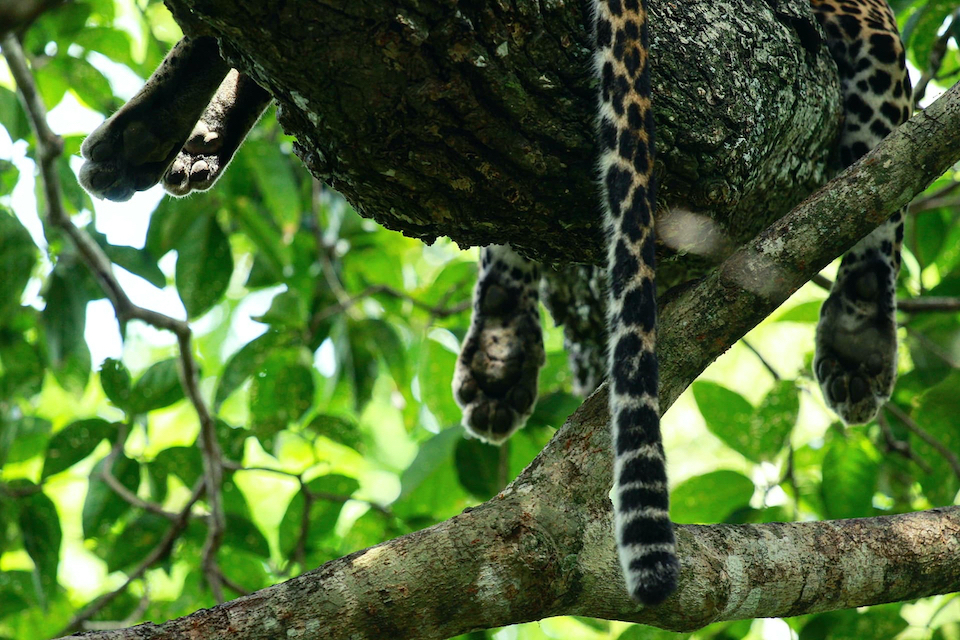
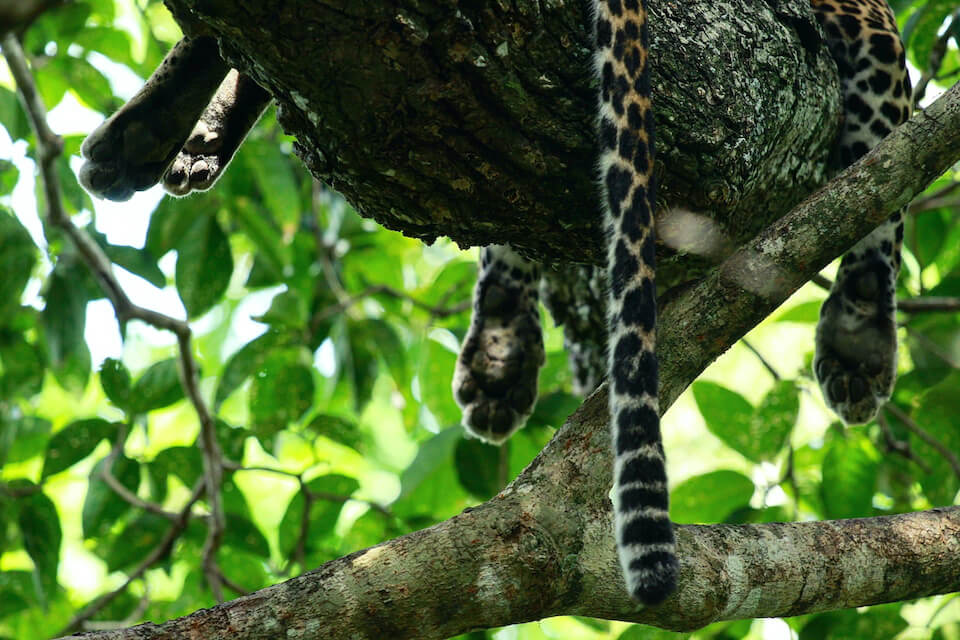
Photos compressed to smaller kbs

Changed region(s): [[0.6875, 0.0, 0.7812, 0.0625], [0.1875, 0.2188, 0.2188, 0.2812]]

diff --git a/README.md b/README.md
@@ -1,5 +1,7 @@
 ![Josh Leedam Photography](/assets/readme-documents/josh-leedam.png)
 
+
+
 I am creating this project in order to showcase Josh Leedam's Photography. I will be using HTML and CSS to create a website 
 containing five pages. A home page, a page of the photographers work, a thubnail page, a page containing a brief history of the photographer
 and a contact page.
@@ -72,7 +74,7 @@ Having written my code for each .html page I have validated them on [The W3C Mar
 The same applies to my css which I have validated on [Jigsaw](https://jigsaw.w3.org/css-validator/)
 
 1. Navbar
-* Going through each of the pages, I cliked on each navigation bar link to ensure all pages worked individually.
+* Going through each of the pages, I clicked on each navigation bar link to ensure all pages worked individually.
 
 1. Social Media links
 * I went to the social media links on each of the pages and clicked on them to ensure they opened up in new tabs using 'target="_blank"'.
